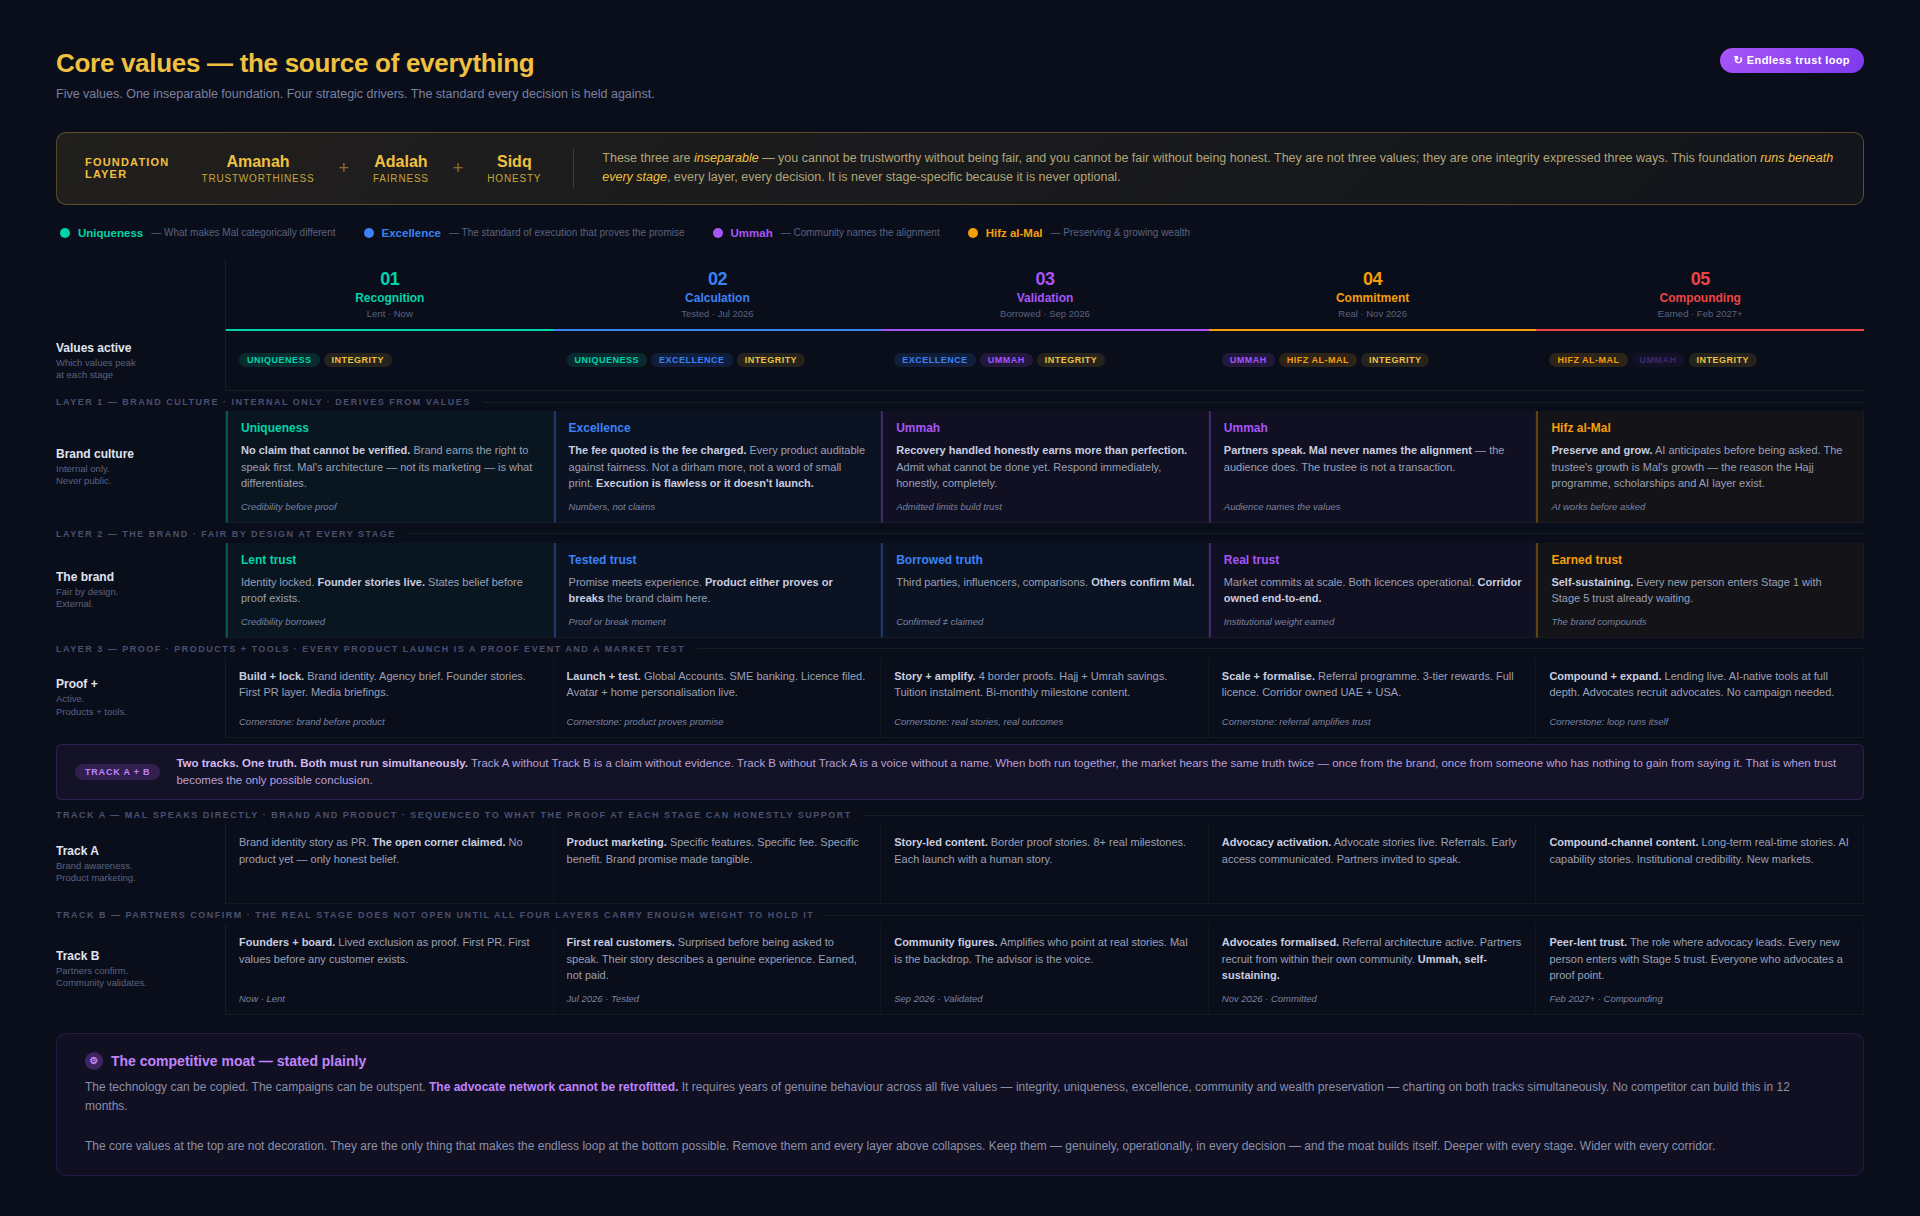
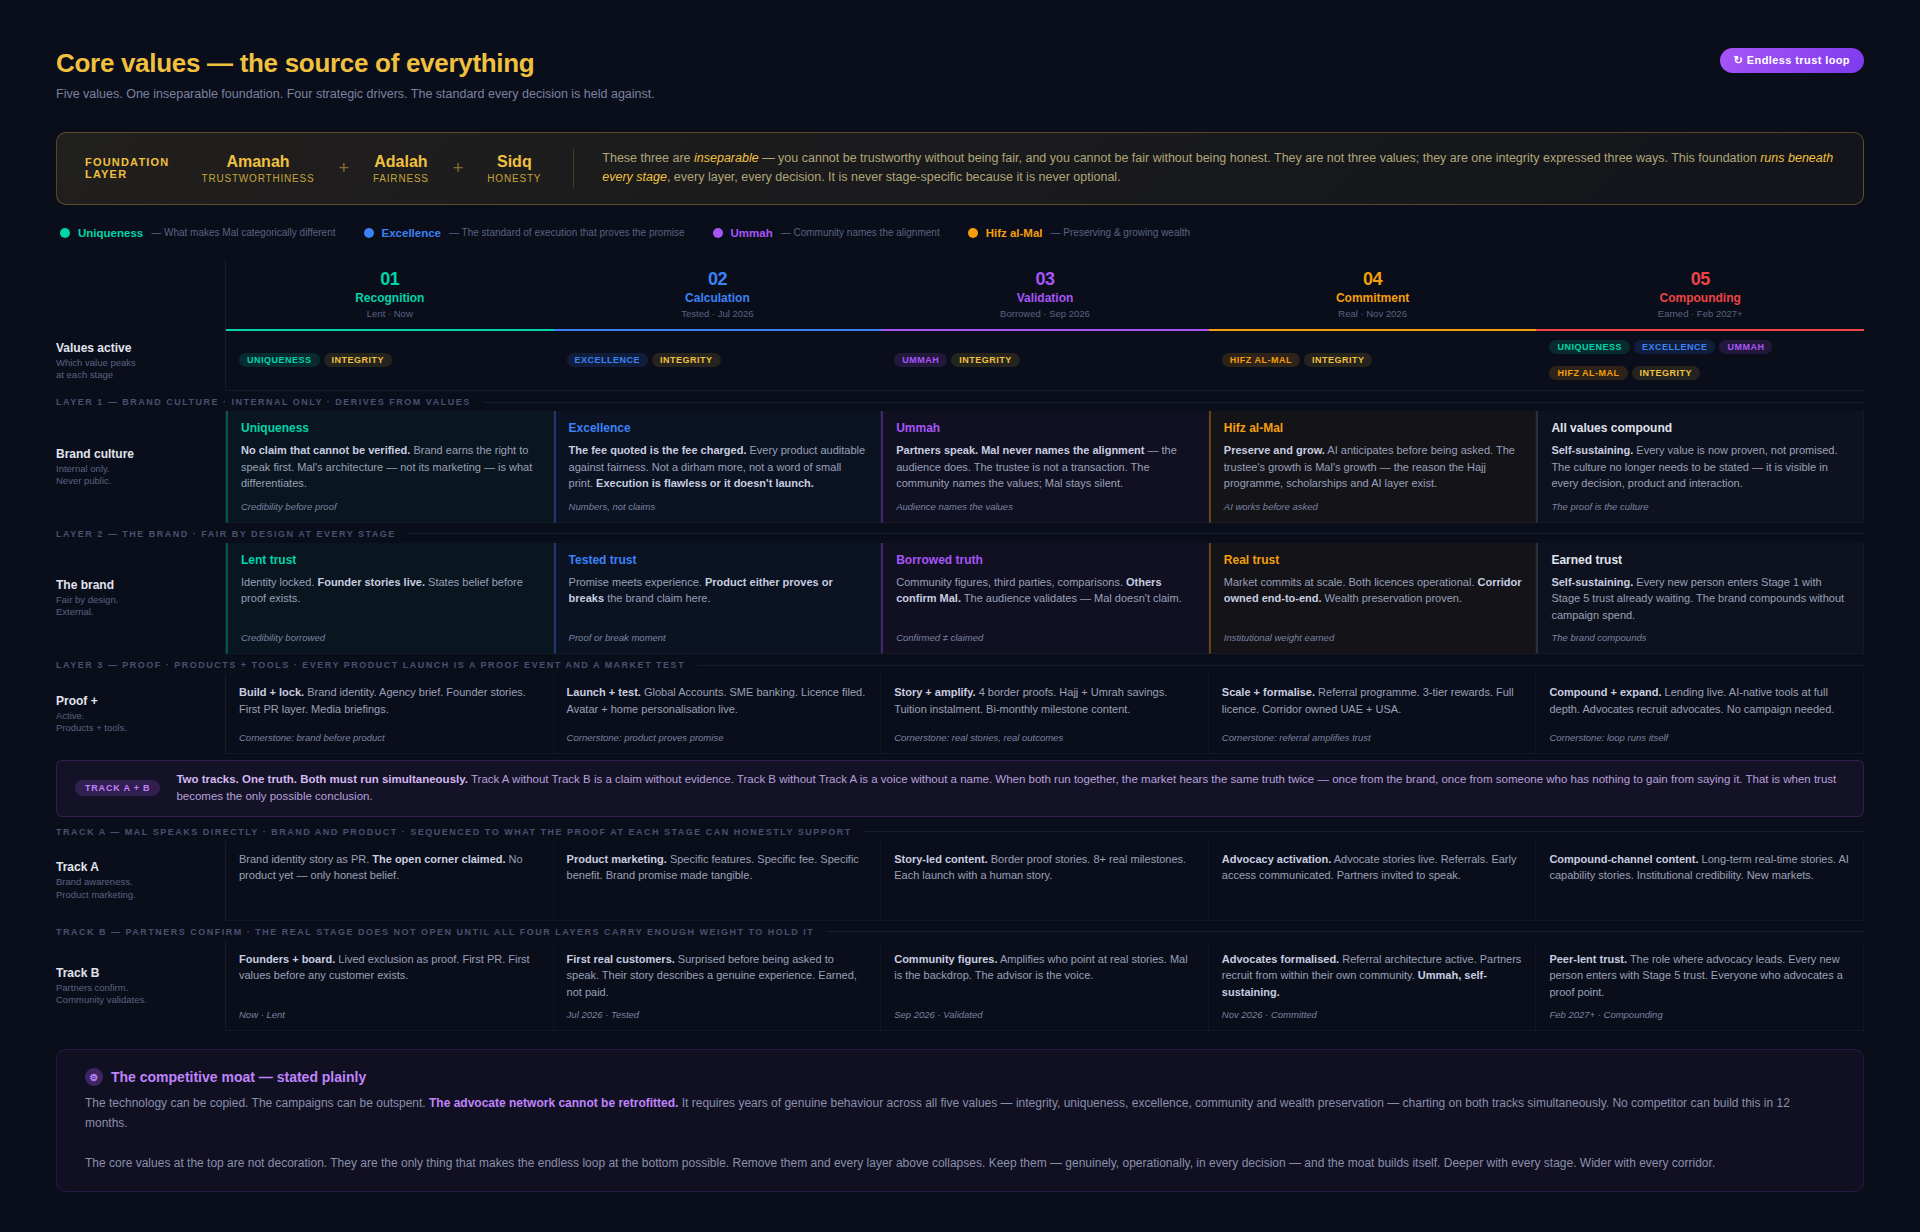
Fix value duplication: each value peaks once, Stage 05 compounds all four
Removes Ummah appearing in both Stage 03 and 04. Clean mapping:
Uniqueness→Recognition, Excellence→Calculation, Ummah→Validation,
Hifz al-Mal→Commitment, all four→Compounding.

Claude-Session: https://claude.ai/code/session_01KaW8XjLVKmY7hUcutsNrUM

diff --git a/slide11_core_values_redesign.html b/slide11_core_values_redesign.html
@@ -515,30 +515,29 @@
   <!-- Value activation row -->
   <div class="row-label">
     <div class="label-title">Values active</div>
-    <div class="label-sub">Which values peak<br>at each stage</div>
+    <div class="label-sub">Which value peaks<br>at each stage</div>
   </div>
   <div class="activation-cell">
     <span class="activation-pip uniqueness">Uniqueness</span>
     <span class="activation-pip foundation">Integrity</span>
   </div>
   <div class="activation-cell">
+    <span class="activation-pip excellence">Excellence</span>
+    <span class="activation-pip foundation">Integrity</span>
+  </div>
+  <div class="activation-cell">
+    <span class="activation-pip ummah">Ummah</span>
+    <span class="activation-pip foundation">Integrity</span>
+  </div>
+  <div class="activation-cell">
+    <span class="activation-pip hifz">Hifz al-Mal</span>
+    <span class="activation-pip foundation">Integrity</span>
+  </div>
+  <div class="activation-cell">
     <span class="activation-pip uniqueness">Uniqueness</span>
     <span class="activation-pip excellence">Excellence</span>
-    <span class="activation-pip foundation">Integrity</span>
-  </div>
-  <div class="activation-cell">
-    <span class="activation-pip excellence">Excellence</span>
-    <span class="activation-pip ummah">Ummah</span>
-    <span class="activation-pip foundation">Integrity</span>
-  </div>
-  <div class="activation-cell">
     <span class="activation-pip ummah">Ummah</span>
     <span class="activation-pip hifz">Hifz al-Mal</span>
-    <span class="activation-pip foundation">Integrity</span>
-  </div>
-  <div class="activation-cell">
-    <span class="activation-pip hifz">Hifz al-Mal</span>
-    <span class="activation-pip ummah dim">Ummah</span>
     <span class="activation-pip foundation">Integrity</span>
   </div>
 
@@ -564,18 +563,18 @@
   </div>
   <div class="cell active-ummah">
     <div class="value-tag ummah">Ummah</div>
-    <div class="content"><strong>Recovery handled honestly earns more than perfection.</strong> Admit what cannot be done yet. Respond immediately, honestly, completely.</div>
-    <div class="cornerstone"><span>Admitted limits build trust</span></div>
-  </div>
-  <div class="cell active-ummah">
-    <div class="value-tag ummah">Ummah</div>
-    <div class="content"><strong>Partners speak. Mal never names the alignment</strong> — the audience does. The trustee is not a transaction.</div>
+    <div class="content"><strong>Partners speak. Mal never names the alignment</strong> — the audience does. The trustee is not a transaction. The community names the values; Mal stays silent.</div>
     <div class="cornerstone"><span>Audience names the values</span></div>
   </div>
   <div class="cell active-hifz">
     <div class="value-tag hifz">Hifz al-Mal</div>
     <div class="content"><strong>Preserve and grow.</strong> AI anticipates before being asked. The trustee's growth is Mal's growth — the reason the Hajj programme, scholarships and AI layer exist.</div>
     <div class="cornerstone"><span>AI works before asked</span></div>
+  </div>
+  <div class="cell" style="background: rgba(255,255,255,0.02); border-left: 2px solid rgba(255,255,255,0.12);">
+    <div class="value-tag" style="color: #e0e4ef;">All values compound</div>
+    <div class="content"><strong>Self-sustaining.</strong> Every value is now proven, not promised. The culture no longer needs to be stated — it is visible in every decision, product and interaction.</div>
+    <div class="cornerstone"><span>The proof is the culture</span></div>
   </div>
 
   <!-- ── Layer 2: The Brand ── -->
@@ -598,19 +597,19 @@
     <div class="content">Promise meets experience. <strong>Product either proves or breaks</strong> the brand claim here.</div>
     <div class="cornerstone"><span>Proof or break moment</span></div>
   </div>
-  <div class="cell active-excellence">
-    <div class="value-tag excellence">Borrowed truth</div>
-    <div class="content">Third parties, influencers, comparisons. <strong>Others confirm Mal.</strong></div>
+  <div class="cell active-ummah">
+    <div class="value-tag ummah">Borrowed truth</div>
+    <div class="content">Community figures, third parties, comparisons. <strong>Others confirm Mal.</strong> The audience validates — Mal doesn't claim.</div>
     <div class="cornerstone"><span>Confirmed ≠ claimed</span></div>
   </div>
-  <div class="cell active-ummah">
-    <div class="value-tag ummah">Real trust</div>
-    <div class="content">Market commits at scale. Both licences operational. <strong>Corridor owned end-to-end.</strong></div>
+  <div class="cell active-hifz">
+    <div class="value-tag hifz">Real trust</div>
+    <div class="content">Market commits at scale. Both licences operational. <strong>Corridor owned end-to-end.</strong> Wealth preservation proven.</div>
     <div class="cornerstone"><span>Institutional weight earned</span></div>
   </div>
-  <div class="cell active-hifz">
-    <div class="value-tag hifz">Earned trust</div>
-    <div class="content"><strong>Self-sustaining.</strong> Every new person enters Stage 1 with Stage 5 trust already waiting.</div>
+  <div class="cell" style="background: rgba(255,255,255,0.02); border-left: 2px solid rgba(255,255,255,0.12);">
+    <div class="value-tag" style="color: #e0e4ef;">Earned trust</div>
+    <div class="content"><strong>Self-sustaining.</strong> Every new person enters Stage 1 with Stage 5 trust already waiting. The brand compounds without campaign spend.</div>
     <div class="cornerstone"><span>The brand compounds</span></div>
   </div>
 
